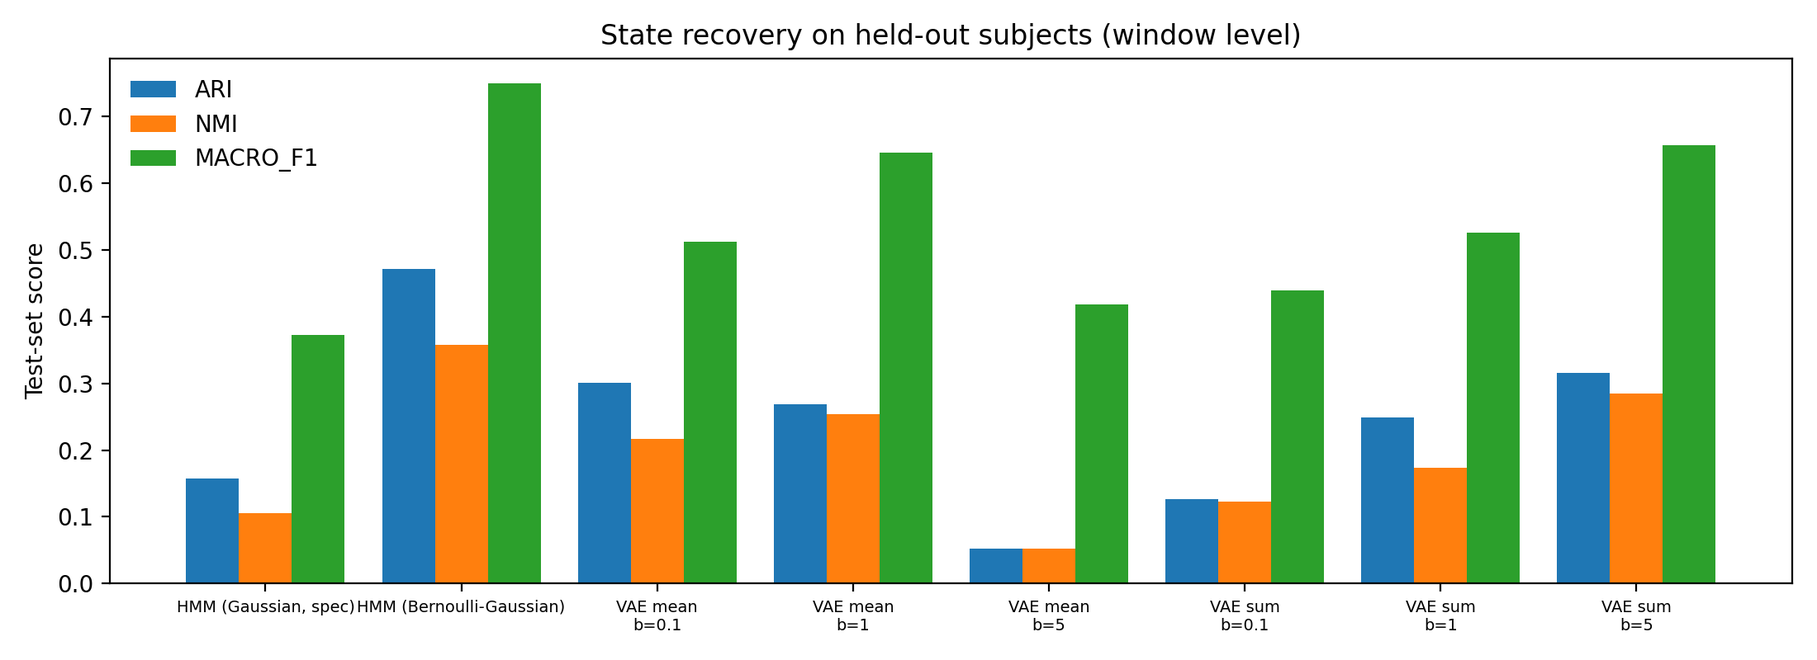
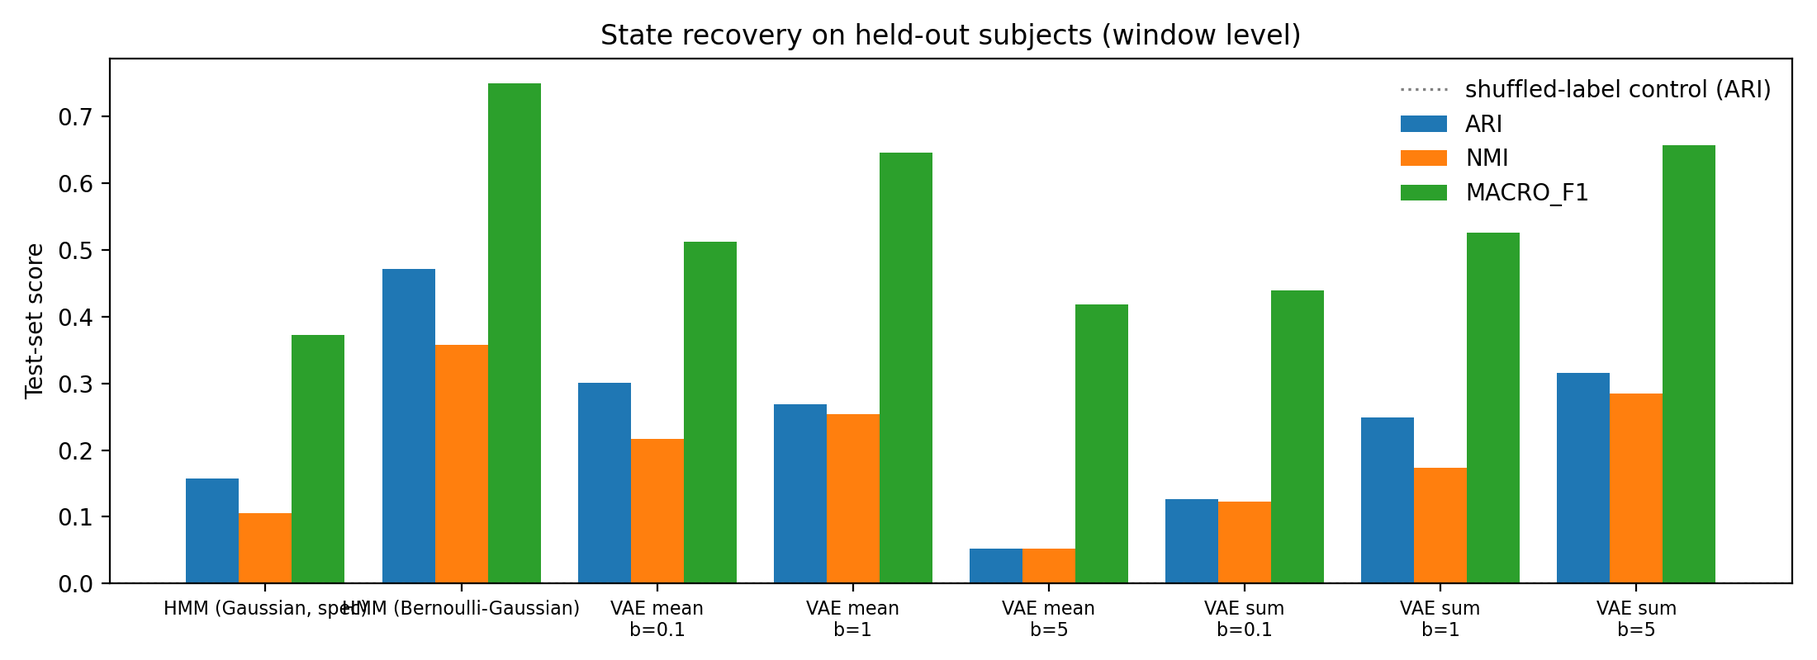
update report, add license and citation

diff --git a/src/evaluate.py b/src/evaluate.py
@@ -170,15 +170,17 @@ def main():
     # ---- figures 2-4 ------------------------------------------------------
     fig_dir = ROOT / "figures"
     cols = ["test_ari", "test_nmi", "test_macro_f1"]
-    labels = [f"{r.model}" if r.model != "VAE" else f"VAE {r.recon}\nb={r.beta:g}"
+    short = {"HMM (Gaussian, spec)": "HMM\nGaussian\n(spec)",
+             "HMM (Bernoulli-Gaussian)": "HMM\nBernoulli-\nGaussian"}
+    labels = [short.get(r.model, f"VAE {r.recon}\nbeta={r.beta:g}")
               for r in summary.itertuples()]
     fig, ax = plt.subplots(figsize=(11, 4))
     w = 0.27
     for i, c in enumerate(cols):
         ax.bar(np.arange(len(summary)) + (i - 1) * w, summary[c].astype(float), w,
                label=c.replace("test_", "").upper())
-    ax.axhline(ctl["ari"], color="grey", ls=":", lw=1)
-    ax.set_xticks(range(len(summary))); ax.set_xticklabels(labels, fontsize=7)
+    ax.axhline(ctl["ari"], color="grey", ls=":", lw=1.2, label="shuffled-label control (ARI)")
+    ax.set_xticks(range(len(summary))); ax.set_xticklabels(labels, fontsize=8)
     ax.set_ylabel("Test-set score"); ax.legend(frameon=False)
     ax.set_title("State recovery on held-out subjects (window level)")
     fig.tight_layout(); fig.savefig(fig_dir / "fig2_recovery_comparison.png", dpi=200); plt.close(fig)

diff --git a/src/counterfactuals.py b/src/counterfactuals.py
@@ -164,11 +164,13 @@ def main():
         for j, nm in enumerate(("engaged", "lapsed")):
             g = df[(df.source == "simulator, state clamped") & (df.condition == nm)][key].item()
             v = df[(df.source == "VAE decoded") & (df.condition == f"z{dim} -> {nm} mean")][key].item()
-            ax.bar(j - 0.2, g, 0.4, color=cols[nm], label="simulator" if j == 0 else None)
-            ax.bar(j + 0.2, v, 0.4, color=cols[nm], alpha=0.4, hatch="//",
-                   label="VAE decoded" if j == 0 else None)
+            ax.bar(j - 0.2, g, 0.4, color=cols[nm])
+            ax.bar(j + 0.2, v, 0.4, color=cols[nm], alpha=0.4, hatch="//")
         ax.set_xticks(x); ax.set_xticklabels(["engaged", "lapsed"]); ax.set_title(ttl)
-        ax.legend(frameon=False, fontsize=7)
+        from matplotlib.patches import Patch
+        ax.legend(handles=[Patch(facecolor="grey", label="simulator (solid)"),
+                           Patch(facecolor="grey", alpha=0.4, hatch="//", label="VAE decoded (hatched)")],
+                  frameon=False, fontsize=7)
     fig.suptitle(f"Latent intervention on z{dim} ({tag}): model counterfactual, not causal inference", fontsize=9)
     fig.tight_layout(); fig.savefig(ROOT / "figures" / "fig5_counterfactuals.png", dpi=200)
 

diff --git a/report.md b/report.md
@@ -1,42 +1,229 @@
-# VAE recovery of latent cognitive states: report
+# Recovering Latent Cognitive States from Choice and Reaction-Time Sequences: A Simulation Study Comparing a Variational Autoencoder with Hidden Markov Models
 
 ## Abstract
 
-I simulated 200 subjects x 300 trials from a three-state (engaged, exploratory, lapsed) first-order Markov process emitting binary correctness and log-RT, windowed the data into non-overlapping 10-trial windows, and split by subject (70/15/15). A GRU-VAE (4-d latent; beta 0.1, 1, 5; two reconstruction scalings) was compared with two HMM baselines on held-out subjects. K-means on the VAE latents recovered the window-level states (test ARI 0.30, NMI 0.22, macro-F1 0.51 for the validation-selected beta = 0.1 model; 0.30 +/- 0.01 across five model seeds) better than the specified Gaussian HMM (ARI 0.16) but clearly worse than a correctly specified Bernoulli-Gaussian HMM (ARI 0.47). The brief's loss collapsed completely at beta >= 1. Setting the lapsed-associated latent dimension (z1) to the lapsed-window mean, versus the engaged mean, produced decoded behaviour in the correct direction (longer RT, lower correctness) but only ~35-42% of the simulator's true shift, with strongly shrunken RT variability. These are model-based counterfactuals, not causal inference.
+Behavioural sequences are often assumed to be generated by latent cognitive states, such as task engagement, exploration and lapses of attention, that switch over time. Discrete-state models such as hidden Markov models (HMMs) are the standard tool for recovering them, whereas variational autoencoders (VAEs) offer a continuous alternative that also permits "what-if" manipulations of the learned representation. This study tests, in a fully simulated setting where the ground truth is known, whether a windowed GRU-VAE recovers hidden states better than an HMM baseline and whether interventions on its latent space decode to behaviour consistent with the simulator's state-specific distributions. I simulated 200 subjects x 300 trials from a three-state (engaged, exploratory, lapsed) Markov process emitting binary correctness and log-RT, split by subject (70/15/15), and evaluated window-level recovery on held-out subjects. K-means on the VAE latents (validation-selected beta = 0.1) reached a test adjusted Rand index (ARI) of 0.30 (0.30 +/- 0.01 across five model seeds), exceeding the HMM specified in the study protocol (ARI 0.16), whose Gaussian emissions are mismatched to binary correctness, but falling well short of a correctly specified Bernoulli-Gaussian HMM (ARI 0.47). The protocol's loss function collapsed completely at beta >= 1. Setting the lapsed-associated latent dimension to the lapsed-window mean rather than the engaged-window mean produced decoded behaviour in the expected direction (longer RTs, lower correctness) but recovered only about 35-42% of the simulator's true effect. I conclude that the VAE captures state-related structure but that, for a process that is discrete by construction, a discrete-state model with the right emission distributions is the more appropriate and more accurate tool. Latent interventions are model-based counterfactuals, not causal inferences.
 
-## Results
+**Keywords:** latent cognitive states; variational autoencoder; hidden Markov model; posterior collapse; counterfactual simulation; reaction time
 
-| Model | Test ARI | NMI | Macro-F1 | Window transition MAE |
-|---|---:|---:|---:|---:|
-| Shuffled-label control | 0.001 | 0.002 | 0.34 | - |
-| HMM, Gaussian (as specified) | 0.158 | 0.105 | 0.372 | 0.247 |
-| HMM, Bernoulli-Gaussian | 0.471 | 0.357 | 0.749 | 0.041 |
-| VAE, spec loss, beta = 0.1 (primary) | 0.301 | 0.217 | 0.512 | 0.153 |
-| VAE, spec loss, beta = 1 / 5 | 0.268 / 0.053 | 0.254 / 0.053 | 0.645 / 0.418 | 0.068 / 0.107 |
-| VAE, summed loss, beta = 0.1 / 1 / 5 | 0.127 / 0.249 / 0.316 | 0.123 / 0.174 / 0.285 | 0.439 / 0.526 / 0.656 | 0.114 / 0.114 / 0.077 |
+---
 
-Full table: `results/summary.csv`; figures in `figures/`.
+## 1. Background
 
-**Success criteria**
-- *Primary (VAE ARI > HMM ARI):* met against the specified Gaussian HMM (0.30 vs 0.16), **not met** against the Bernoulli-Gaussian HMM (0.30 vs 0.47). The Gaussian HMM's weakness is an artefact of modelling binary correctness as Gaussian, so the honest summary is that a discrete-state model with the right emission distributions beats the VAE on this simulator. Per the brief, that is a valid finding: the simulator is a discrete-state process, so a discrete-state model is the more appropriate one.
-- *Secondary (a latent dimension separates lapsed from engaged):* met. In the primary model z1 has a standardised lapsed-engaged difference of 3.2 SD (single-dimension probe accuracy 0.72 vs 0.57 majority baseline).
-- *Counterfactual direction:* met. Intervening on z1 toward the lapsed mean versus the engaged mean shifts decoded mean log-RT by +0.30 (simulator: +0.70) and decoded correctness by -0.12 (simulator: -0.35). Wasserstein distance of decoded to true lapsed RTs is 0.39 (engaged: 0.19). The magnitude is under-recovered and decoded within-window RT SD (0.02-0.08) is far below the simulator's (0.24-0.44), because a deterministic MSE decoder outputs conditional means.
+### 1.1 Latent states in behaviour
 
-**Posterior collapse.** With the brief's loss, beta = 1 and 5 collapse (total KL < 1e-4 nats, posterior variance ~ 1). beta = 0.1 keeps three active dimensions (KL 0.41, 0.06, 0.09 nats) and one collapsed. Summed-reconstruction runs keep more dimensions active at low beta. Near-collapsed latents can still be linearly decodable (z-scored probes), so cluster ARI on tiny-variance latents should not be read as healthy latent use.
+Trial-by-trial choices and reaction times (RTs) fluctuate in ways that a single stationary decision process does not explain. A common account is that an observer moves among a small number of latent states, for example an engaged state with fast, accurate responding, an exploratory state with slower and less accurate responding, and a lapsed state in which responding approaches chance with long and variable RTs. Switching between discrete strategies has been documented with HMM-type models in perceptual decision-making (Ashwood et al., 2022), and HMMs are the conventional method for inferring such sequences (Rabiner, 1989). Because real latent states are never observed, the accuracy of any method can only be judged in simulation, where the generating states are known.
 
-## Interpretation and caveats
+### 1.2 Generative deep models as an alternative
 
-The VAE learns state-related structure (probe accuracy 0.73 vs 0.57 baseline, ARI far above the shuffle control), but its unsupervised clusters are less state-aligned than a properly specified HMM. Window labels are majority votes over a Markov chain with 70-90% self-transition, so mixed windows cap every method. Results rest on one simulated dataset (model-seed variation only). Counterfactual claims are about the decoder's behaviour, not about causal structure in cognition.
+A VAE (Kingma & Welling, 2014) learns an encoder that maps data to a distribution over a continuous latent variable and a decoder that maps latent values back to data, trained by maximising the evidence lower bound (ELBO), a reconstruction term plus a Kullback-Leibler (KL) penalty toward a prior. The beta-VAE variant weights the KL term by beta to trade reconstruction fidelity against latent regularisation (Higgins et al., 2017). Two properties make VAEs attractive for behavioural data: the latent space is continuous and so can in principle express graded or mixed states, and the decoder permits manipulating the latent code and inspecting the behaviour it generates. Their characteristic failure mode is posterior collapse, in which the approximate posterior matches the prior and the latent carries no information about the input (Bowman et al., 2016).
 
-## Comprehension checks (brief answers)
+### 1.3 Aims and research questions
 
-1. The HMM shows whether the VAE beats a simple, correctly structured probabilistic model; without it, any ARI is uninterpretable.
-2. Posterior collapse: the posterior equals the prior in some/all dimensions (variance ~ 1, KL ~ 0, no state information); detected here via per-dimension variance, KL and single-dimension probes.
-3. The intervention edits a learned representation and reads out the decoder; it does not manipulate the generative process that produced real behaviour.
-4. Worse-than-HMM recovery suggests a continuous, unconstrained latent is an inefficient fit to a discrete-switching process without structure or priors that encourage clustering.
-5. Trials within a subject are autocorrelated and subject-specific; trial-level splits leak.
-6. Latent/cluster labels are arbitrary permutations; matching is required before label-based scores.
+The aims of this project were to test, using simulated sequences with known hidden states:
 
-## CV line
+1. **RQ1.** Does a VAE's learned latent representation recover the simulator's hidden states better than an HMM baseline?
+2. **RQ2.** Do interventions on the VAE's latent dimensions produce decoded choice/RT patterns consistent with the simulator's own ground-truth state manipulations?
+
+"Counterfactual" is used here in the model-based sense only: it describes what the trained decoder produces under a different latent value. It is explicitly not causal inference about real cognition.
+
+---
+
+## 2. Methodology
+
+All code, configuration (`config.yaml`, seed 2026) and tests are in the accompanying repository. Software: Python 3.13, PyTorch 2.12, hmmlearn 0.3.3, scikit-learn 1.7, SciPy 1.16.
+
+### 2.1 Simulator
+
+For each of 200 subjects, a hidden state sequence of 300 trials was drawn from a first-order Markov chain over three states (engaged, exploratory, lapsed), starting in the engaged state, with transition matrix (rows: current state)
+
+| From \ To | Engaged | Exploratory | Lapsed |
+|---|---:|---:|---:|
+| Engaged | 0.90 | 0.07 | 0.03 |
+| Exploratory | 0.10 | 0.80 | 0.10 |
+| Lapsed | 0.10 | 0.20 | 0.70 |
+
+Each trial emitted a binary correctness value and a log-RT with state-specific parameters:
+
+| State | P(correct) | log-RT mean | log-RT SD |
+|---|---:|---:|---:|
+| Engaged | 0.85 | 0.20 | 0.25 |
+| Exploratory | 0.65 | 0.40 | 0.30 |
+| Lapsed | 0.50 | 0.90 | 0.45 |
+
+The implied stationary distribution is approximately 0.57 / 0.34 / 0.10 (engaged / exploratory / lapsed). Seven unit tests verify that empirical state proportions and transition frequencies match their expected values, that lapsed trials are slower than engaged trials, trial counts, seed reproducibility, window shape and label correctness, and the subject-level split with training-only standardisation.
+
+### 2.2 Windowing, labels and data split
+
+Each subject's sequence was cut into 30 non-overlapping windows of 10 trials; each window is a 10 x 2 matrix of [correct, log-RT]. A window's true label is its majority hidden state. Subjects (not trials or windows) were split 70/15/15 into 140 training, 30 validation and 30 test subjects, so that no subject contributes to more than one set. Log-RT was standardised with the training-set mean and SD only; correctness was left as 0/1. The test set was used only for final evaluation, and all model selection used validation data.
+
+Windows are frequently mixed: in the test set 73% of windows contain more than one hidden state, and the label distribution is imbalanced (57% engaged, 34% exploratory, 10% lapsed). This places a ceiling on the recovery any method can achieve.
+
+### 2.3 HMM baselines
+
+Two three-state HMMs were fit on the training subjects' trial sequences (one sequence per subject, windows concatenated), with the best of five initialisations chosen by training log-likelihood. Decoded trial states were reduced to window labels by majority vote, mirroring the definition of the true label.
+
+- **Gaussian HMM (protocol baseline).** `hmmlearn.GaussianHMM` with full covariance, treating correctness as a numeric feature, as the project plan prescribes.
+- **Bernoulli-Gaussian HMM (added).** A custom Baum-Welch implementation with Bernoulli emissions for correctness and Gaussian emissions for log-RT, with posterior-marginal decoding. This was added because the Gaussian model's likelihood is dominated by the binary feature (Section 3.1), making it an unrepresentatively weak baseline.
+
+### 2.4 VAE
+
+The VAE took a 10 x 2 window as input. A single-layer GRU encoder (hidden size 32) fed linear heads for the mean and log-variance of a 4-dimensional Gaussian latent; a GRU decoder (hidden size 32), initialised from the latent, produced a 10 x 2 reconstruction. The objective was reconstruction mean-squared error plus beta times the KL divergence (summed over latent dimensions, averaged over the batch). Training used Adam (learning rate 0.001, batch size 128) for up to 100 epochs with early stopping after 10 epochs without validation improvement, on CPU, with all random seeds fixed. Beta was set to 0.1, 1 and 5.
+
+Because element-averaged MSE makes the KL term large relative to reconstruction, a sensitivity variant with squared error summed over the window (equivalent to a unit-variance Gaussian log-likelihood) was trained at the same three betas. This gives six VAE runs. The primary model was chosen as the run with the highest validation K-means ARI among runs retaining at least one active latent dimension (KL >= 0.01 nats); fully collapsed runs were excluded from this choice.
+
+### 2.5 Evaluation
+
+**State recovery (RQ1).** For the VAE, K-means (k = 3, 10 initialisations) was applied to posterior-mean latents of the held-out windows. For the HMMs, inferred window labels were used directly. Because cluster and state labels are arbitrary, labels were aligned to the true labels with Hungarian matching before label-based metrics. Reported metrics: ARI, normalised mutual information (NMI), macro-F1 after matching, and the mean absolute error (MAE) between the window-to-window transition matrix of the matched predicted labels and that of the true window labels. A negative control permuted the true labels (100 permutations). As a complement, a logistic-regression probe (z-scored features) mapped latents to true labels (trained on training subjects, evaluated on test subjects); this shows whether state information is present in the latents but is not an unsupervised recovery result.
+
+**Posterior-collapse diagnostics.** For each latent dimension: mean posterior variance (versus the prior variance of 1), variance of the posterior means across windows, per-dimension KL, and the accuracy of a single-dimension probe relative to the majority-class rate. A dimension was flagged as collapsed if its KL was below 0.01 nats and its probe did not exceed the majority rate by more than 2 percentage points.
+
+**Counterfactual intervention (RQ2).** For the primary model, the latent dimension with the largest standardised lapsed-versus-engaged mean difference in the training windows was selected. For every test window the encoder mean was computed, that dimension was set to the mean value among training windows with a true lapsed label (and, as a comparison condition, the engaged label), and the result was decoded and returned to the original log-RT scale. An additional condition replaced the whole latent vector by the state mean. Decoded windows were compared with 5,000 windows per state generated by the simulator with the hidden state clamped, on mean correctness, mean log-RT, within-window RT SD, the probabilities of a correct response given a previous correct or error response (with decoded correctness sampled as Bernoulli from the decoded probability), and the Wasserstein-1 distance between pooled RT distributions. Success was defined directionally: lapsed-direction decoding should give longer RTs and lower correctness than engaged-direction decoding.
+
+**Success criteria (specified before running the analyses).** (i) *Primary:* the VAE's test ARI exceeds the HMM baseline's. (ii) *Secondary:* at least one latent dimension separates lapsed from engaged windows. (iii) *Counterfactual:* an intervention toward the lapsed-state region yields longer decoded RTs and lower decoded correctness than an intervention toward the engaged-state region. (iv) *Interpretive:* if the HMM outperforms the VAE, this is reported as evidence that a discrete-state model is more appropriate for this simulator, not as a failure. Criterion (i) was written with the project plan's HMM (`hmmlearn.GaussianHMM`, Day 2 of the plan) in mind; the Bernoulli-Gaussian HMM was added afterwards (Section 2.3).
+
+---
+
+## 3. Results
+
+### 3.1 State recovery on held-out subjects
+
+**Table 1.** Window-level state recovery on the 30 test subjects (900 windows). The shuffled-label control gave ARI 0.001, NMI 0.002 and macro-F1 0.34.
+
+| Model | Val. ARI | Test ARI | Test NMI | Test macro-F1 | Transition MAE |
+|---|---:|---:|---:|---:|---:|
+| HMM, Gaussian (protocol) | 0.144 | 0.158 | 0.105 | 0.372 | 0.247 |
+| HMM, Bernoulli-Gaussian | 0.420 | 0.471 | 0.357 | 0.749 | 0.041 |
+| VAE, MSE-mean loss, beta = 0.1 (primary) | 0.283 | 0.301 | 0.217 | 0.512 | 0.153 |
+| VAE, MSE-mean loss, beta = 1 | 0.270 | 0.268 | 0.254 | 0.645 | 0.068 |
+| VAE, MSE-mean loss, beta = 5 | 0.073 | 0.053 | 0.053 | 0.418 | 0.107 |
+| VAE, summed loss, beta = 0.1 | 0.161 | 0.127 | 0.123 | 0.439 | 0.114 |
+| VAE, summed loss, beta = 1 | 0.244 | 0.249 | 0.174 | 0.526 | 0.114 |
+| VAE, summed loss, beta = 5 | 0.293 | 0.316 | 0.285 | 0.656 | 0.077 |
+
+*Gaussian HMM.* This model did not recover cognitive states. Its three components corresponded to correct/fast, incorrect/fast and an outlier-RT component (state means in standardised space such as (0, 0.29), (1, -0.11) and (1, 6.1) for [correct, log-RT]), and its recovered transition matrix was unlike the generating matrix (trial-level MAE 0.37; trial-state accuracy 0.56). Increasing the covariance regularisation did not change this behaviour. This is a consequence of modelling a binary variable as Gaussian: variance on the binary dimension can shrink toward zero within a component, so the likelihood rewards separating correct from incorrect trials rather than separating cognitive states.
+
+*Bernoulli-Gaussian HMM.* With the appropriate emission model, the HMM recovered the generating parameters closely: state-wise P(correct) of 0.86 / 0.66 / 0.50 (true 0.85 / 0.65 / 0.50) and a transition matrix within a mean absolute error of 0.04 of the true matrix (trial-state accuracy 0.78). It achieved the best window-level recovery (ARI 0.47).
+
+*VAE.* The validation-selected VAE (MSE-mean loss, beta = 0.1; early-stopped at epoch 44) achieved test ARI 0.30, above the Gaussian HMM but below the Bernoulli-Gaussian HMM. Re-training this configuration under four additional model seeds (same dataset) gave a test ARI of 0.305 +/- 0.010 (range 0.298-0.319), so the VAE result is stable with respect to initialisation. A logistic probe on its latents reached 0.73 accuracy and 0.67 macro-F1 on test subjects, against a 0.57 majority-class accuracy, showing that state information is present in the latents.
+
+*Figures.* Figure 1 (example subject), Figure 2 (recovery comparison), Figure 3 (UMAP of latents), Figure 4 (latent distributions by state), Figure 5 (counterfactuals) and Figure S1 (training curves) are in `figures/`.
+
+### 3.2 Posterior collapse
+
+**Table 2.** Per-dimension diagnostics of the primary VAE (beta = 0.1, test windows).
+
+| Dimension | Mean posterior variance | KL (nats) | Single-dimension probe accuracy | Flagged collapsed |
+|---|---:|---:|---:|:---:|
+| z0 | 1.00 | 0.000 | 0.587 | yes |
+| z1 | 0.42 | 0.409 | 0.719 | no |
+| z2 | 0.89 | 0.059 | 0.568 | no |
+| z3 | 0.85 | 0.086 | 0.568 | no |
+
+Only z1 is strongly informative; z2 and z3 have non-zero KL but carry little single-dimension state information (probe accuracy at the majority rate). Under the protocol's loss, beta = 1 and beta = 5 collapsed completely (total KL about 2e-5 and 1e-5 nats, posterior variance about 1 in all dimensions, best validation epoch 11). With the summed reconstruction loss, beta = 0.1 and 1 kept four and three active dimensions respectively, but beta = 5 collapsed (total KL 2.4e-4 nats).
+
+A caution on interpretation: collapse is a continuum rather than a binary property. Several runs with total KL near zero still gave above-chance z-scored probe accuracy (e.g. 0.72 for MSE-mean beta = 1; 0.74 for summed beta = 5) and non-trivial K-means ARI (0.27 and 0.32), because K-means is invariant to the scale of the latent and a linear probe can exploit a signal of tiny magnitude. These ARIs therefore do not indicate a healthily used latent space, and the primary model was selected only among runs with at least one active dimension.
+
+### 3.3 Counterfactual latent interventions
+
+The latent dimension most associated with the lapsed state was z1 (standardised lapsed-minus-engaged difference 3.2 SD; state means -0.43 for engaged and 1.22 for lapsed).
+
+**Table 3.** Decoded behaviour after intervention versus two references: the simulator with the hidden state clamped (pure states) and the observed test windows grouped by their majority-state label (which contain mixed windows).
+
+| Condition | Mean correctness | Mean log-RT | Within-window RT SD |
+|---|---:|---:|---:|
+| VAE, no intervention | 0.734 | 0.350 | 0.040 |
+| VAE, z1 -> engaged mean | 0.763 | 0.285 | 0.021 |
+| VAE, z1 -> lapsed mean | 0.639 | 0.582 | 0.081 |
+| VAE, all z -> engaged mean | 0.763 | 0.282 | 0.009 |
+| VAE, all z -> lapsed mean | 0.640 | 0.579 | 0.053 |
+| Simulator, engaged | 0.852 | 0.200 | 0.242 |
+| Simulator, exploratory | 0.652 | 0.400 | 0.291 |
+| Simulator, lapsed | 0.498 | 0.901 | 0.437 |
+| Observed test windows, true label engaged | 0.802 | 0.271 | 0.307 |
+| Observed test windows, true label lapsed | 0.569 | 0.676 | 0.464 |
+
+The intervention met the directional criterion: moving z1 from the engaged to the lapsed mean increased decoded mean log-RT by 0.30 (simulator: 0.70) and reduced decoded correctness by 0.12 (simulator: 0.35), i.e. 42% and 35% of the clamped-state simulator's effects. Against the more like-for-like reference, observed test windows labelled lapsed versus engaged (RT difference 0.41, correctness difference 0.23), the decoded shifts are about 73% and 53% of the observed differences. Because the latent state means were estimated from such majority-labelled, partly mixed windows, the observed-window contrast is the fairer benchmark, and the clamped-state contrast is a stricter upper bound. The Wasserstein distance between decoded and simulator RT distributions was 0.39 for the lapsed condition and 0.19 for the engaged condition (0.58 and 0.15 for unmodified decoding compared with lapsed and engaged ground truth, respectively). Intervening on all latent dimensions gave almost the same means as intervening on z1 alone, consistent with z1 carrying most of the state-related signal. Decoded within-window RT variability (0.02-0.08) was an order of magnitude below the simulator's (0.24-0.44), and sampled correctness sequences showed no serial dependence (P(correct | correct) about equal to P(correct | error)), as in the simulator. The bootstrap intervals computed over test windows are extremely narrow (about +/- 0.0003) but reflect the near-determinism of the decoder rather than uncertainty about the effect.
+
+### 3.4 Evaluation against the success criteria
+
+| Criterion | Outcome |
+|---|---|
+| Primary: VAE test ARI exceeds HMM test ARI | Met against the protocol Gaussian HMM (0.30 vs 0.16); not met against the Bernoulli-Gaussian HMM (0.30 vs 0.47) |
+| Secondary: a latent dimension separates lapsed from engaged windows | Met (z1, 3.2 SD) |
+| Counterfactual: lapsed-direction intervention gives longer RTs and lower correctness | Met in direction; magnitude under-recovered (35-42%) |
+| Interpretive: if the HMM wins, discrete states are more appropriate | Applies to the Bernoulli-Gaussian HMM |
+
+---
+
+## 4. Discussion
+
+### 4.1 Does the VAE recover hidden states better than an HMM?
+
+The answer depends on which HMM is the comparator, and this dependency is the main finding. Against the HMM specified in the protocol the VAE is clearly better, but that comparison is uninformative because the Gaussian HMM fails for a reason unrelated to the question: it treats binary correctness as continuous and so partitions trials by outcome rather than by state. Against an HMM whose emission model matches the data-generating process, the VAE is clearly worse (ARI 0.30 vs 0.47; macro-F1 0.51 vs 0.75; transition MAE 0.15 vs 0.04). This outcome is not surprising: the simulator is a discrete-state Markov process, which is exactly the model class the HMM assumes, and the HMM exploits temporal structure across windows that the VAE, which encodes each window independently, cannot. The VAE has no mechanism that favours clustered latents, and 73% of windows contain a mixture of states, which a single continuous code must represent as an intermediate value. These results are consistent with the interpretive criterion set in advance: when a discrete-state model outperforms the VAE, a discrete-state model is more appropriate for a simulator that is itself discrete. They do not show that VAEs are unsuitable for behavioural data in general. The comparison would shift with real data that include graded or continuously varying internal variables, which the HMM would represent poorly.
+
+Evidence that the VAE does learn state-related structure is nonetheless substantial: its ARI is far above the shuffled control, a linear probe recovers state with 0.73 accuracy against a 0.57 baseline, and one latent dimension (z1) separates lapsed from engaged windows by more than three standard deviations. The result was stable across model seeds.
+
+The geometry of the latent space helps explain the ceiling on clustering. A UMAP projection of the test latents (Figure 3) shows engaged, exploratory and lapsed windows arranged along a continuous left-to-right gradient, with overlapping rather than separated groups: the VAE has learned an ordered "severity" axis (consistent with z1 carrying most of the signal) instead of three discrete clusters. K-means with k = 3 must cut this continuum at arbitrary points, which limits ARI even though the latent is informative, whereas an HMM imposes discreteness by construction. The same axis is what makes graded interventions on z1 meaningful.
+
+### 4.2 Posterior collapse and the training objective
+
+The protocol's loss, element-averaged MSE plus beta x summed KL, strongly favours collapse. Reconstruction error is a mean over 20 numbers per window with values around 1, whereas the KL is summed over four latent dimensions, so even beta = 1 makes it cheaper to discard the latent than to encode it, and the model learned to output near-constant reconstructions (validation reconstruction MSE about 0.58). Only beta = 0.1 retained informative dimensions. Rescaling the reconstruction term (summed loss) retained more active dimensions at low beta and gave the best ARI at beta = 5 (0.32), but that run is itself near-collapsed by the KL criterion, which illustrates why ARI should be reported together with KL and probe diagnostics rather than alone. The diagnostics also showed that collapse is graded: informative signal can survive at a very small scale, and a scale-invariant clustering algorithm will find it.
+
+### 4.3 Interpreting the counterfactual results
+
+The intervention produced a coherent directional effect: shifting a single latent dimension toward its lapsed-window mean made decoded behaviour slower and less accurate, in the direction and roughly the order of magnitude of the simulator's lapsed-versus-engaged difference. This shows that the VAE's latent geometry is aligned with the simulator's state structure along that dimension. It does not show that the model has recovered the mechanism that generated the data, nor that interventions on the latent would identify causal effects in real cognition. The decoder is a regression to the conditional mean of the window, so (i) effects are attenuated (35-42% of the clamped-state shift, but 53-73% of the difference observed between majority-lapsed and majority-engaged test windows), partly because a window labelled "lapsed" is often a mixture of states, so its latent mean is less extreme than a pure lapsed state and the clamped-state comparison is deliberately strict; (ii) decoded RT variability is largely lost; and (iii) trial-to-trial dependence is not represented. A decoder with a probabilistic output (for example Bernoulli and Gaussian likelihoods for the two observation types) would be a more faithful test of whether the decoded distribution, rather than just its mean, matches the simulator.
+
+### 4.3.1 Counterfactual versus causal
+
+The latent intervention asks what the trained model would decode under a different latent value. The clamped-state simulator provides a ground truth for the *simulator's* state manipulation, which is why the comparison is meaningful here. In real data no such ground truth exists, so the same procedure would yield descriptive model behaviour only, not a causal claim about the underlying cognitive process.
+
+### 4.4 Limitations
+
+1. **Single simulated dataset.** Seed robustness was assessed for VAE initialisation and training order only; variation across newly simulated datasets was not examined, so differences of a few ARI points between runs should not be over-interpreted. The VAE-versus-HMM conclusion rests on a gap (0.30 vs 0.47) that is much larger than the model-seed variation (SD 0.01), but no confidence interval across datasets is available.
+2. **A simulator that favours the HMM.** The generating process is a first-order Markov chain with conditionally independent emissions, which is the HMM's own assumption. The result may not transfer to data with graded states, non-Markov dynamics or state-dependent temporal structure.
+3. **Window-level label ambiguity.** Majority-vote labels over mixed windows (73% of test windows) and class imbalance (10% lapsed) bound all recovery metrics, and ARI penalises predictions for ambiguous windows that are not wrong in a meaningful sense.
+4. **Asymmetric information.** HMMs were fit on full trial sequences and used temporal context across windows, whereas the VAE encoded each window independently; the comparison therefore conflates model class and context. An HMM restricted to single windows, or a VAE with a sequence-level latent, would isolate the model class more cleanly.
+5. **Added and specified baselines.** The protocol HMM is a weak comparator, and the Bernoulli-Gaussian HMM was introduced after seeing the former fail. It is a principled correction (correct emission model), but it is an analytic choice made in light of the results.
+6. **Model selection.** The primary VAE was selected on validation ARI, which uses validation labels; the model is nonetheless unsupervised in training and the test labels were untouched. The six-run grid was small and the architecture (hidden size 32, 4-d latent) was not tuned.
+7. **Deterministic decoder and counterfactual metrics.** The MSE decoder yields conditional means, understating variability and attenuating effects; bootstrap intervals over windows understate uncertainty; and the correctness-sequence statistic relies on Bernoulli sampling of the decoded probability, so it contains no information about serial dependence learned by the model.
+8. **Collapse diagnostics.** The collapse thresholds (KL < 0.01 nats; probe within 2 points of the majority rate) are heuristic, and collapse is graded rather than binary.
+9. **No real data.** Optional extensions to real behavioural data or to a second simulated test bed (a reversal-learning simulator) were not run. Results are simulation-only and make no claims about real cognition.
+
+### 4.5 Conclusion
+
+In a controlled simulation, a windowed GRU-VAE learned a latent space that carries state information and supports directionally correct latent interventions, but it recovered the hidden states less accurately than an HMM with matched emission distributions, and the loss specified in the protocol collapsed at beta >= 1. For a process that is discrete by construction, the discrete-state model is the better choice; the principal value of the VAE lies in settings where states may be graded or unknown in form, and where its decoder can be used for model-based what-if exploration, provided its collapse behaviour and its attenuated, mean-regressed decoding are monitored and reported.
+
+---
+
+## Reproducibility and code/data availability
+
+All data are simulated; no human or animal data were used. The full pipeline (simulator, windowing, HMM baselines, VAE training, evaluation, counterfactuals, figures) is in the repository https://github.com/karenccl/vae-latent-cognitive-states. Parameters are fixed in `config.yaml` (seed 2026) and software versions are pinned in `environment.yml`. Seven unit tests (`python -m pytest`) cover the simulator, windowing and subject-level split. The scripts in `src/` regenerate every table and figure; the run order is given in the README, and the numerical results are stored in `results/` (including `summary.csv`). Model checkpoints and latent vectors are in `outputs/`. Re-running the evaluation and counterfactual scripts reproduced the stored results exactly. Training was on CPU and takes a few minutes per model.
+
+## References
+
+Ashwood, Z. C., Roy, N. A., Stone, I. R., International Brain Laboratory, Urai, A. E., Churchland, A. K., Pouget, A., & Pillow, J. W. (2022). Mice alternate between discrete strategies during perceptual decision-making. *Nature Neuroscience, 25*, 201-212.
+
+Bowman, S. R., Vilnis, L., Vinyals, O., Dai, A. M., Jozefowicz, R., & Bengio, S. (2016). Generating sentences from a continuous space. *Proceedings of the 20th SIGNLL Conference on Computational Natural Language Learning*, 10-21.
+
+Cho, K., van Merrienboer, B., Gulcehre, C., Bahdanau, D., Bougares, F., Schwenk, H., & Bengio, Y. (2014). Learning phrase representations using RNN encoder-decoder for statistical machine translation. *Proceedings of EMNLP 2014*, 1724-1734.
+
+Higgins, I., Matthey, L., Pal, A., Burgess, C., Glorot, X., Botvinick, M., Mohamed, S., & Lerchner, A. (2017). beta-VAE: Learning basic visual concepts with a constrained variational framework. *International Conference on Learning Representations*.
+
+Hubert, L., & Arabie, P. (1985). Comparing partitions. *Journal of Classification, 2*, 193-218.
+
+Kingma, D. P., & Welling, M. (2014). Auto-encoding variational Bayes. *International Conference on Learning Representations*.
+
+Kuhn, H. W. (1955). The Hungarian method for the assignment problem. *Naval Research Logistics Quarterly, 2*, 83-97.
+
+Rabiner, L. R. (1989). A tutorial on hidden Markov models and selected applications in speech recognition. *Proceedings of the IEEE, 77*(2), 257-286.
+
+---
+
+## Appendix A: Summary
+
+I built a simulation study testing whether a variational autoencoder (VAE) can recover hidden cognitive states (engaged, exploratory, lapsed) from choice and reaction-time sequences, compared with hidden Markov models (HMMs), using held-out simulated subjects. The VAE recovered states above the HMM specified in the project plan (ARI 0.30 vs 0.16) but below an HMM with correctly matched emission distributions (0.47), and posterior collapse occurred at higher regularisation strengths. Latent interventions shifted decoded behaviour in the expected direction (slower, less accurate) at 35-73% of the true effect depending on the reference. The project demonstrates generative modelling, baseline-controlled evaluation, collapse diagnostics and careful distinction between model-based counterfactuals and causal inference, in reproducible Python code.
+
+## Appendix B: CV line
 
 Built a reproducible simulation pipeline and GRU-VAE/HMM comparison (PyTorch, hmmlearn) recovering latent cognitive states from choice/RT sequences, with posterior-collapse diagnostics and latent-intervention counterfactuals benchmarked against simulator ground truth.

diff --git a/comprehension_checks.md b/comprehension_checks.md
@@ -1,0 +1,13 @@
+# Comprehension checks
+
+1. **Why is the HMM baseline non-negotiable?** It shows whether the VAE learns more than a simple, correctly structured probabilistic model. Without it an ARI of 0.30 is uninterpretable. In this project it was decisive: the VAE beat the protocol Gaussian HMM (0.30 vs 0.16) but lost to a Bernoulli-Gaussian HMM (0.47), and the baseline also exposed that the first HMM was mis-specified.
+
+2. **What is posterior collapse and how is it detected here?** The approximate posterior equals the prior in some or all latent dimensions, so the latent carries no information about the input. Detected by per-dimension posterior variance near 1, KL near 0, and single-dimension probes at the majority-class rate. With the specified loss, beta = 1 and 5 collapsed completely (total KL < 1e-4 nats); beta = 0.1 kept three active dimensions. Collapse is graded: near-zero-KL latents can still be linearly decodable, and K-means is scale-invariant, so ARI alone can mislead.
+
+3. **Why is a latent intervention not a causal intervention?** It edits a learned representation and reads out the trained decoder ("what would the model decode under a different latent value?"). It does not manipulate the process that generated the behaviour, and the decoder reflects the training distribution and its inductive biases. The comparison to the simulator is informative only because the simulator's ground truth is known; on real data it would be descriptive.
+
+4. **If VAE recovery is worse than the HMM, what does that suggest?** When the generating process is discrete and Markov, a continuous unconstrained latent is a less efficient fit: it learned an ordered severity axis rather than three clusters, encodes windows independently, and has no mechanism that favours clustering. That is a reason to prefer a discrete-state model for this simulator, not a general verdict on continuous latents (which may suit graded or unknown state structure).
+
+5. **Why split by subject rather than by trial?** Trials within a subject are autocorrelated and share subject-specific structure (and here, hidden-state dynamics). Splitting by trial or window would put neighbouring, highly dependent observations in both training and test sets, inflating performance. Subject-level splits test generalisation to new individuals.
+
+6. **Why is Hungarian matching necessary?** Cluster and HMM state indices are arbitrary permutations of the true labels. Label-based metrics (macro-F1, confusion, transition error) need the optimal one-to-one assignment between inferred and true labels first; ARI and NMI are permutation-invariant but matching is still needed for the label-dependent measures.
